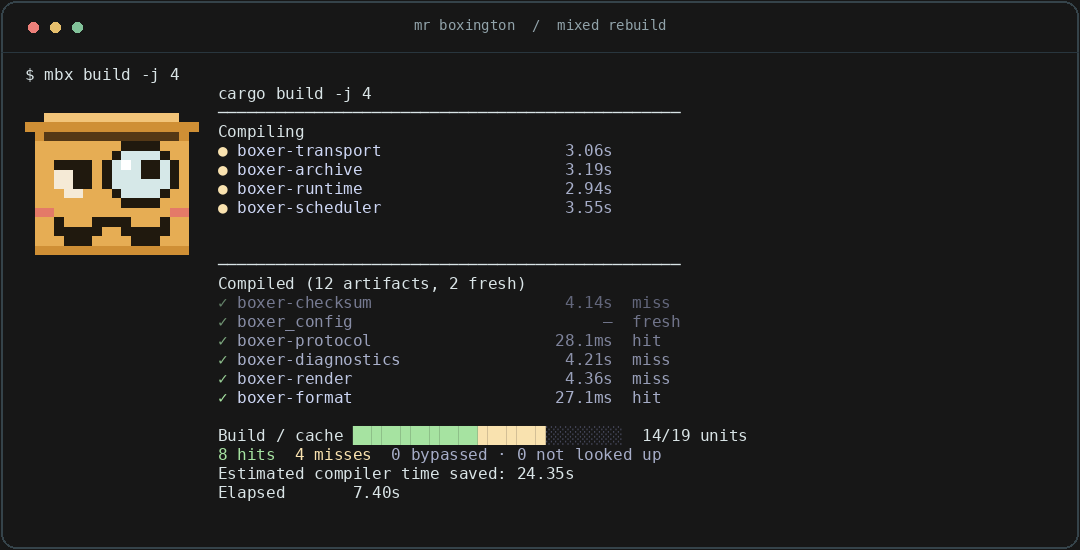
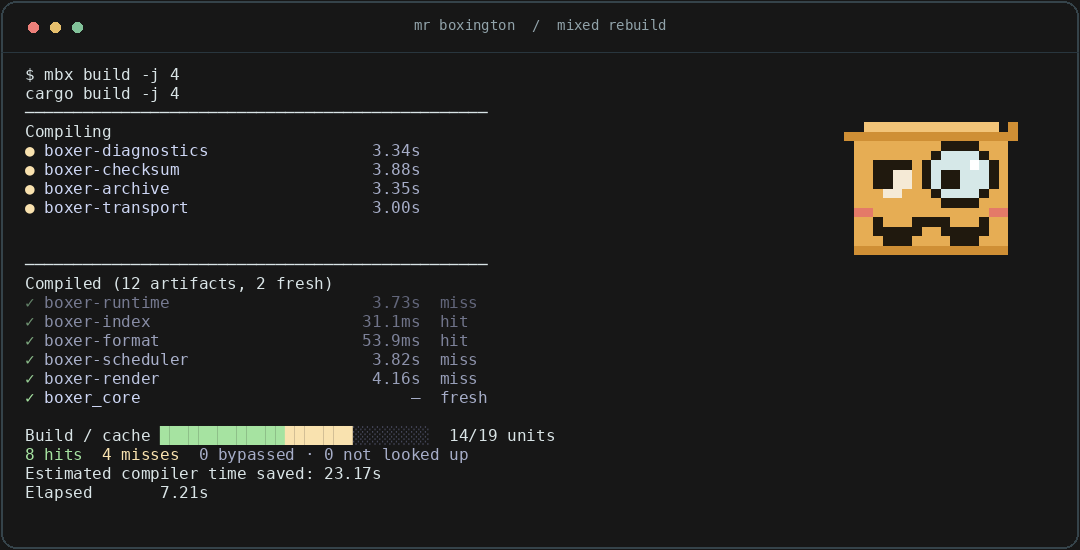
fix(pretty): move mascot right and clarify its animation (#561)

diff --git a/crates/mbx/src/cli/mascot.rs b/crates/mbx/src/cli/mascot.rs
@@ -91,8 +91,8 @@ const BODY: Layer = Layer::at(1, 6, &[
 ]);
 /// The open top of the box, drawn whenever the lid is not shut on it.
 const OPENING: Layer = Layer::at(1, 5, &["DHHHHHHHHHHHHHHD"]);
-/// The lid, shut. Drawn `lid` pixels higher while the build runs. Its front
-/// edge overhangs the box by a pixel on each side.
+/// The lid, shut. While the build runs, the left end stays hinged to the box
+/// and the right end rises by `lid` pixels. Its front edge overhangs the box.
 #[rustfmt::skip]
 const LID: Layer = Layer::at(0, 4, &[
     "..BBBBBBBBBBBBBB..",
@@ -152,6 +152,7 @@ const PUPIL: &[&str] = &[
     "KK",
     "KK",
 ];
+const PUPIL_DOWN: &[&str] = &["KK"];
 
 #[rustfmt::skip]
 const RING: Layer = Layer::at(8, 6, &[
@@ -166,6 +167,8 @@ const RING: Layer = Layer::at(8, 6, &[
 /// The one highlight that is always on: inside the lens a pixel in from the
 /// ring's top-left chamfer, with lens between it and the tape tab.
 const PARKED_GLINT: Layer = Layer::at(10, 8, &["G"]);
+/// While looking left, put the highlight across the lens from the pupil.
+const PARKED_GLINT_RIGHT: Layer = Layer::at(13, 8, &["G"]);
 /// The eye behind the monocle, blinking.
 const MONOCLE_SHUT: Layer = Layer::at(9, 9, &["KKKKKK"]);
 /// Failure only: popped out and hanging by its dotted chain against the box's
@@ -216,7 +219,7 @@ const STRAWBERRY: Layer = Layer::at(4, 0, &[
 ]);
 
 pub(super) const LID_MAX: u8 = 4;
-/// The drawn lid descends at most this far per drawn frame.
+/// The drawn lid's right edge descends at most this far per drawn frame.
 const LID_STEP_PX: u8 = 1;
 /// The Compiling list for [0, 4200), the progress bar for [4200, 5400), and
 /// you for [5400, 7000).
@@ -263,7 +266,7 @@ fn gaze_at(ms: u128) -> Gaze {
 /// in integers.
 ///
 /// 4 px at the start, then 3, 2 and 1 from 22.5%, 45% and 67.5%, and shut from
-/// 90%. An unknown or zero total hovers at 4 and never moves.
+/// 90%. An unknown or zero total holds the lid fully open.
 fn lid_offset(done: usize, total: Option<usize>) -> u8 {
     let Some(total) = total.filter(|total| *total > 0) else {
         return LID_MAX;
@@ -348,7 +351,7 @@ pub(super) enum Eye {
 
 #[derive(Clone, Copy, Debug, Default, PartialEq, Eq)]
 pub(super) enum Gaze {
-    /// Right, toward the Compiling list.
+    /// Left, toward the Compiling list.
     List,
     /// Down, toward the progress bar.
     Bar,
@@ -358,22 +361,21 @@ pub(super) enum Gaze {
 }
 
 impl Gaze {
-    /// The top-left pixels of the bare eye's pupil and the monocle's. Every
-    /// lens position keeps a pixel of glass between the pupil and the ring.
+    /// The bare eye's pupil and the monocle's. The downward glance uses a
+    /// shorter pupil so lens glass remains between it and the ring.
     fn pupils(self) -> [Layer; 2] {
-        let [(x, y), (lens_x, lens_y)] = match self {
-            Self::List => [(5, 9), (12, 8)],
-            Self::Bar => [(4, 10), (12, 9)],
-            Self::You => [(4, 9), (11, 9)],
-        };
-        [Layer::at(x, y, PUPIL), Layer::at(lens_x, lens_y, PUPIL)]
+        match self {
+            Self::List => [Layer::at(3, 9, PUPIL), Layer::at(10, 9, PUPIL)],
+            Self::Bar => [Layer::at(3, 10, PUPIL_DOWN), Layer::at(10, 10, PUPIL_DOWN)],
+            Self::You => [Layer::at(4, 9, PUPIL), Layer::at(11, 9, PUPIL)],
+        }
     }
 }
 
 /// What a frame shows. A finished failure is the default with `failed` set.
 #[derive(Clone, Copy, Debug, Default, PartialEq, Eq)]
 pub(super) struct Pose {
-    /// Pixels the lid hovers above the box, 0 to `LID_MAX`.
+    /// Pixels the lid's right edge rises above its closed position.
     pub lid: u8,
     /// Tape over the shut lid, on success only.
     pub taped: bool,
@@ -426,6 +428,27 @@ fn stamp(canvas: &mut Canvas, layer: Layer) {
     }
 }
 
+fn stamp_lid(canvas: &mut Canvas, rise: u8) {
+    if rise == 0 {
+        stamp(canvas, LID);
+        return;
+    }
+    // Hinge the left end at the box. Each column drops by at most one pixel
+    // when `rise` drops by one, so jumpy Cargo progress still reads as closing.
+    let mut previous_y = LID.y + 1;
+    for (x, _) in LID.rows[1].bytes().enumerate() {
+        let front_y = LID.y + 1 - usize::from(rise) * x / (SIZE - 1);
+        canvas[front_y][x] = b'D';
+        if front_y < previous_y {
+            canvas[previous_y][x] = b'D';
+        }
+        if (2..SIZE - 2).contains(&x) {
+            canvas[front_y - 1][x] = b'B';
+        }
+        previous_y = front_y;
+    }
+}
+
 /// Turn the lens pixels on diagonals `2p + 1` and `2p + 2` into glint. Only
 /// pixels still showing lens light up: never the pupil, the ring or the shut
 /// line.
@@ -461,8 +484,7 @@ fn sprite(pose: Pose) -> Canvas {
     if pose.lid > 0 {
         stamp(&mut canvas, OPENING);
     }
-    let lid = Layer::at(LID.x, LID.y - usize::from(pose.lid), LID.rows);
-    stamp(&mut canvas, lid);
+    stamp_lid(&mut canvas, pose.lid);
     if pose.taped {
         stamp(&mut canvas, TAPE);
     }
@@ -484,7 +506,14 @@ fn sprite(pose: Pose) -> Canvas {
     stamp(&mut canvas, eyelid);
     stamp(&mut canvas, RING);
     stamp(&mut canvas, monocle);
-    stamp(&mut canvas, PARKED_GLINT);
+    stamp(
+        &mut canvas,
+        if matches!(pose.gaze, Gaze::List | Gaze::Bar) {
+            PARKED_GLINT_RIGHT
+        } else {
+            PARKED_GLINT
+        },
+    );
     if let Some(position) = pose.glint {
         light_band(&mut canvas, position);
     }

diff --git a/crates/mbx/src/cli/mascot_tests.rs b/crates/mbx/src/cli/mascot_tests.rs
@@ -96,6 +96,47 @@ fn every_cell_shows_its_two_pixels_with_half_blocks() {
 }
 
 #[test]
+fn monocle_pupils_stay_clear_of_the_glint_and_ring() {
+    for gaze in [Gaze::List, Gaze::Bar, Gaze::You] {
+        for glint in [None, Some(0), Some(1), Some(2), Some(3)] {
+            let canvas = sprite(Pose {
+                gaze,
+                glint,
+                ..Pose::default()
+            });
+            let [_, pupil] = gaze.pupils();
+            for (x, y, _) in pupil.pixels() {
+                assert_eq!(canvas[y][x], b'K', "{gaze:?} {glint:?} at ({x}, {y})");
+                if glint.is_none() && y == pupil.y + pupil.rows.len() - 1 {
+                    assert_eq!(canvas[y + 1][x], b'L', "{gaze:?} at ({x}, {y})");
+                }
+            }
+            let parked = if matches!(gaze, Gaze::List | Gaze::Bar) {
+                PARKED_GLINT_RIGHT
+            } else {
+                PARKED_GLINT
+            };
+            assert_eq!(canvas[parked.y][parked.x], b'G');
+        }
+    }
+}
+
+#[test]
+fn both_pupils_follow_the_downward_left_glance() {
+    let [list_eye, list_lens] = Gaze::List.pupils();
+    let [bar_eye, bar_lens] = Gaze::Bar.pupils();
+    let [you_eye, you_lens] = Gaze::You.pupils();
+    for (list, bar, you) in [
+        (list_eye, bar_eye, you_eye),
+        (list_lens, bar_lens, you_lens),
+    ] {
+        assert!(list.x < you.x);
+        assert_eq!(bar.x, list.x);
+        assert_eq!(bar.y, list.y + 1);
+    }
+}
+
+#[test]
 fn finished_frames_ignore_the_clock_and_the_previous_lid() {
     for ok in [true, false] {
         let finished = Inputs {
@@ -352,17 +393,17 @@ fn golden_sprites() {
     assert_eq!(
         rows(&sprite(start)),
         [
-            "..BBBBBBBBBBBBBB..",
-            "DDDDDDDDDDDDDDDDDD",
             "..................",
-            "..................",
-            "..................",
-            ".DHHHHHHHHHHHHHHD.",
+            ".............BBB.D",
+            ".........BBBBDDDDD",
+            ".....BBBBDDDDD....",
+            "..BBBDDDDD........",
+            "DDDDDDHHHHHHHHHHD.",
             ".AAAAAAAAAKKKKAAA.",
             ".AAAAAAAAKLLLLKAA.",
-            ".AAKKKKAKLGLKKLKA.",
-            ".AAWWKKAKLLLKKLKA.",
-            ".AAWWKKAKLLLLLLKA.",
+            ".AAKKKKAKLLLLGLKA.",
+            ".AAKKWWAKLKKLLLKA.",
+            ".AAKKWWAKLKKLLLKA.",
             ".AAAWWAAAKLLLLKAA.",
             ".AAAAAAAAAKKKKAAA.",
             ".AAAAAAAAAAAAAAAA.",
@@ -389,15 +430,15 @@ fn golden_sprites() {
             "..................",
             "..................",
             "..................",
-            "..BBBBBBBBBBBBBB..",
+            "..................",
+            "..BBBBBBBBBBBBBB.D",
             "DDDDDDDDDDDDDDDDDD",
-            ".DHHHHHHHHHHHHHHD.",
             ".AAAAAAAAAKKKKAAA.",
             ".AAAAAAAAKLLGGKAA.",
-            ".AAAAAAAKLGGGLLKA.",
-            ".AAKKKKAKLGGKKLKA.",
-            ".AAWKKWAKGGLKKLKA.",
-            ".AAAKKAAAKLLLLKAA.",
+            ".AAAAAAAKLLGGGLKA.",
+            ".AAKKKKAKLGGLLLKA.",
+            ".AAKKWWAKGKKLLLKA.",
+            ".AAAWWAAAKLLLLKAA.",
             ".AAAAAAAAAKKKKAAA.",
             ".11AAAAAAAAAAAA11.",
             ".AAKAAAKKKKAAAKAA.",

diff --git a/crates/mbx/src/cli/pretty/tests.rs b/crates/mbx/src/cli/pretty/tests.rs
@@ -480,9 +480,10 @@ fn mascot_keeps_progress_readable_and_stays_out_of_narrow_views() {
     let paint =
         |color: Option<mascot::Rgb>| color.map_or(Color::Reset, |(r, g, b)| Color::Rgb(r, g, b));
     let mut painted = vec![Vec::new(); mascot::HEIGHT];
+    let mascot_x = done.size().0 - mascot::WIDTH as u16;
     for (x, y, text, style) in done.runs() {
         for (i, glyph) in text.chars().enumerate() {
-            if usize::from(x) + i < mascot::WIDTH {
+            if usize::from(x) + i >= usize::from(mascot_x) {
                 painted[usize::from(y)].push((glyph, style.fg, style.bg));
             }
         }

diff --git a/crates/mbx/src/cli/pretty/view.rs b/crates/mbx/src/cli/pretty/view.rs
@@ -70,10 +70,10 @@ pub(super) fn render(
                         .bg(paint(run[0].bg))
                 }),
         )
-    }))
-    .w(WIDTH as u16 + 2);
-    let content = render_content(model, None, width - WIDTH as u16 - 2, height);
-    rimel::row([art, content])
+    }));
+    let content_width = width - WIDTH as u16 - 2;
+    let content = render_content(model, None, content_width, height).w(content_width);
+    rimel::row([content, rimel::text("  "), art])
 }
 
 fn render_content(
